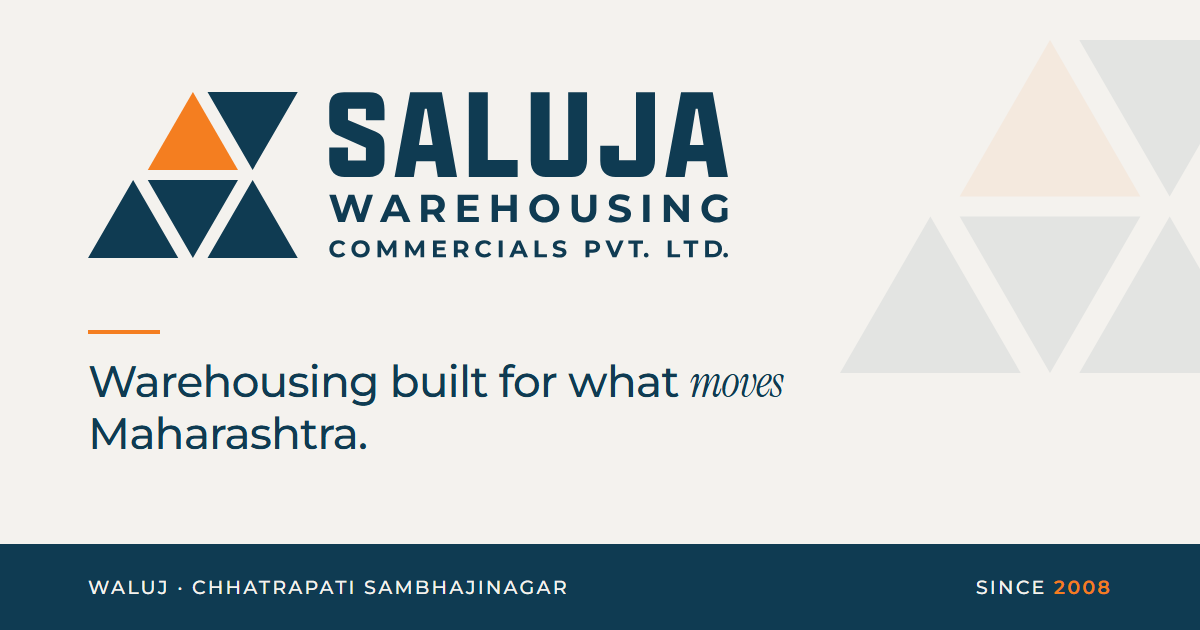
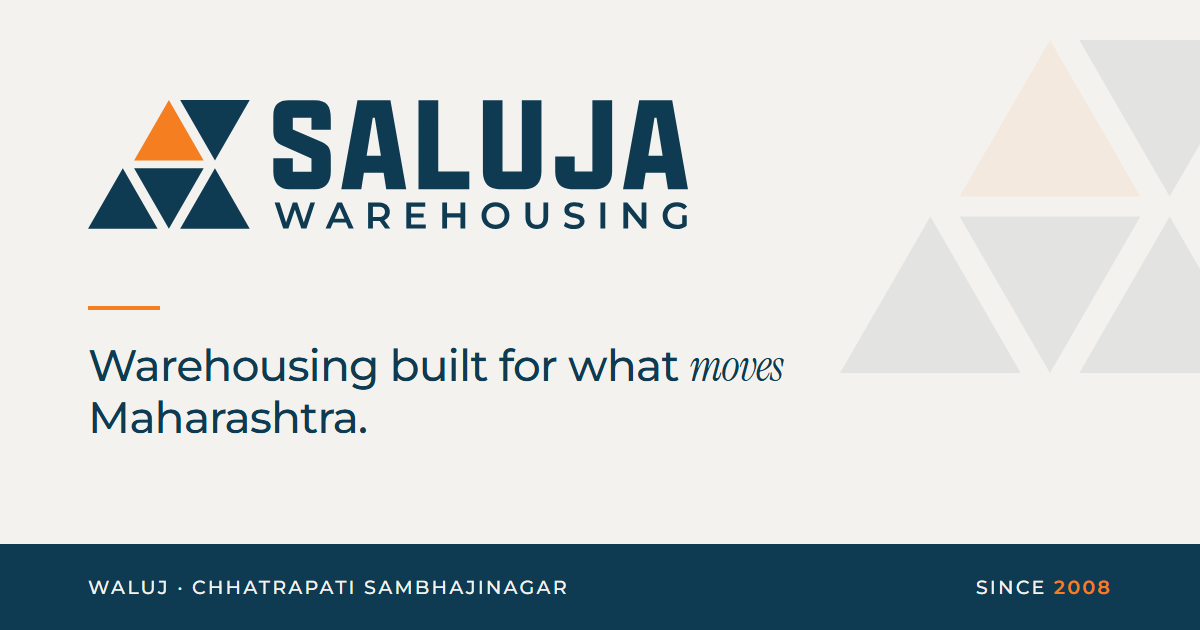
Present the site as Saluja Warehousing only
Drop every element tied to Saluja Warehousing Commercials Pvt. Ltd.:
- Remove the circular seal artwork (its ring carries the Commercials
  name); the Home and Company badges go back to "Since 2008" with the
  brand mark, and the 404 page uses the mark
- Rebuild the Open Graph card and the JSON-LD logo from the short
  SALUJA / WAREHOUSING lockups instead of the full legal-name ones
- Footer copyright, JSON-LD name and the enquiry reference prefix now
  say Saluja Warehousing / SW- rather than the Pvt. Ltd. name or SWCPL

Also keep the palette to the client kit: status dots and form errors
use brand orange instead of off-palette green and red.

Changed region(s): [[0.0617, 0.1206, 0.6167, 0.4222], [0.0617, 0.4825, 0.6783, 0.7238]]

diff --git a/index.html b/index.html
@@ -20,7 +20,7 @@
     <link rel="preload" href="/fonts/montserrat-var.woff2" as="font" type="font/woff2" crossorigin />
     <link rel="preload" href="/fonts/instrument-serif-italic.woff2" as="font" type="font/woff2" crossorigin />
     <link rel="preconnect" href="https://images.unsplash.com" />
-    <script type="application/ld+json">{"@context":"https://schema.org","@type":"LocalBusiness","name":"Saluja Warehousing Commercials Pvt. Ltd.","alternateName":"Saluja Warehousing","logo":"/logo.png","image":"/og-image.png","address":{"@type":"PostalAddress","streetAddress":"Aurangabad–Ahmednagar Highway, Waluj","addressLocality":"Chhatrapati Sambhajinagar","addressRegion":"Maharashtra","postalCode":"431133","addressCountry":"IN"},"telephone":"+91-8460427855","foundingDate":"2008","geo":{"@type":"GeoCoordinates","latitude":19.842,"longitude":75.236}}</script>
+    <script type="application/ld+json">{"@context":"https://schema.org","@type":"LocalBusiness","name":"Saluja Warehousing","logo":"/logo.png","image":"/og-image.png","address":{"@type":"PostalAddress","streetAddress":"Aurangabad–Ahmednagar Highway, Waluj","addressLocality":"Chhatrapati Sambhajinagar","addressRegion":"Maharashtra","postalCode":"431133","addressCountry":"IN"},"telephone":"+91-8460427855","foundingDate":"2008","geo":{"@type":"GeoCoordinates","latitude":19.842,"longitude":75.236}}</script>
   </head>
   <body>
     <div id="root"></div>

diff --git a/src/pages/Home.jsx b/src/pages/Home.jsx
@@ -1,6 +1,6 @@
 import { useEffect, useRef, useState } from 'react';
 import { Link } from 'react-router-dom';
-import BrandSeal from '../components/BrandSeal.jsx';
+import BrandMark from '../components/BrandMark.jsx';
 import CampusMap from '../components/CampusMap.jsx';
 import usePageMeta from '../hooks/usePageMeta.js';
 import { IMG, PHONE, TEL, fmt, prefersReducedMotion } from '../data/site.js';
@@ -292,7 +292,9 @@ function Intro() {
             <img className="intro-img-main" src={IMG('1587293852726-70cdb56c2866', 1400)} alt="High pallet racking stocked with cartons" loading="lazy" />
             <img className="intro-img-sub" src={IMG('1616401784845-180882ba9ba8', 900)} alt="Reach truck working an aisle" loading="lazy" />
             <div className="intro-badge">
-              <BrandSeal />
+              <BrandMark tone="light" className="intro-badge-mark" />
+              <span>Since</span>
+              <strong>2008</strong>
             </div>
           </div>
         </div>

diff --git a/src/pages/Company.jsx b/src/pages/Company.jsx
@@ -1,5 +1,5 @@
 import { useEffect, useRef, useState } from 'react';
-import BrandSeal from '../components/BrandSeal.jsx';
+import BrandMark from '../components/BrandMark.jsx';
 import PageHero from '../components/PageHero.jsx';
 import NextCard from '../components/NextCard.jsx';
 import usePageMeta from '../hooks/usePageMeta.js';
@@ -107,7 +107,7 @@ export default function Company() {
         <div className="container split">
           <div className="lead-media">
             <img src={portrait} alt="Jeetendrasingh Saluja, Proprietor of Saluja Warehousing" loading="lazy" width="800" height="800" />
-            <div className="lead-monogram"><BrandSeal tone="light" /></div>
+            <div className="lead-monogram"><BrandMark tone="light" className="lead-monogram-mark" /><span className="lead-monogram-kicker">Since</span><span>2008</span></div>
           </div>
           <div className="stack">
             <span className="eyebrow">Leadership</span>

diff --git a/src/pages/Home.css b/src/pages/Home.css
@@ -262,15 +262,28 @@
 }
 .intro-badge {
   position: absolute;
-  left: 6%;
-  top: 5%;
-  width: clamp(128px, 12vw, 168px);
+  left: 8%;
+  top: 6%;
+  width: clamp(112px, 10.5vw, 136px);
   aspect-ratio: 1;
-  padding: clamp(8px, 0.9vw, 12px);
   border-radius: 50%;
-  background: #fff;
-  box-shadow: 0 20px 40px rgba(10, 42, 59, 0.18);
+  background: var(--navy);
+  color: var(--bg);
+  display: flex;
+  flex-direction: column;
+  align-items: center;
+  justify-content: center;
+  gap: 2px;
+  box-shadow: 0 20px 40px rgba(10, 42, 59, 0.25);
 }
+.intro-badge-mark { width: clamp(24px, 2.2vw, 30px); height: auto; margin-bottom: 6px; }
+.intro-badge span {
+  font: 500 11px var(--sans);
+  letter-spacing: 0.14em;
+  text-transform: uppercase;
+  color: rgba(244, 242, 238, 0.7);
+}
+.intro-badge strong { font: 400 clamp(30px, 2.8vw, 38px)/1 var(--serif); }
 
 .intro-stats {
   margin: clamp(64px, 7vw, 110px) 0 0;

diff --git a/src/pages/Company.css b/src/pages/Company.css
@@ -55,12 +55,25 @@
   position: absolute;
   left: 0;
   bottom: 10%;
-  width: clamp(132px, 12vw, 168px);
+  width: clamp(124px, 11.5vw, 156px);
   aspect-ratio: 1;
-  padding: clamp(8px, 0.9vw, 12px);
   border-radius: 50%;
   background: var(--navy-deep);
+  border: 6px solid var(--orange);
+  display: flex;
+  flex-direction: column;
+  align-items: center;
+  justify-content: center;
+  gap: 2px;
   box-shadow: 0 20px 40px rgba(0, 0, 0, 0.3);
+}
+.lead-monogram .lead-monogram-mark { width: clamp(24px, 2.2vw, 30px); height: auto; margin-bottom: 6px; }
+.lead-monogram span { font: italic 400 clamp(30px, 2.8vw, 40px)/1 var(--serif); }
+.lead-monogram .lead-monogram-kicker {
+  font: 500 11px var(--sans);
+  letter-spacing: 0.14em;
+  text-transform: uppercase;
+  color: rgba(244, 242, 238, 0.75);
 }
 .lead-person {
   display: flex;

diff --git a/src/pages/NotFound.jsx b/src/pages/NotFound.jsx
@@ -1,5 +1,5 @@
 import { Link } from 'react-router-dom';
-import BrandSeal from '../components/BrandSeal.jsx';
+import BrandMark from '../components/BrandMark.jsx';
 import usePageMeta from '../hooks/usePageMeta.js';
 import { PHONE, TEL } from '../data/site.js';
 import './NotFound.css';
@@ -9,7 +9,7 @@ export default function NotFound() {
   return (
     <section className="nf" aria-labelledby="nf-h">
       <div className="container nf-inner">
-        <BrandSeal className="nf-seal" />
+        <BrandMark className="nf-mark" />
         <span className="eyebrow">Error 404</span>
         <h1 id="nf-h" className="h2 nf-title">This aisle is <span className="em">empty</span>.</h1>
         <p className="lead">The page you were looking for has moved or never existed. The campus, though, is right where it has been since 2008.</p>

diff --git a/src/styles/global.css b/src/styles/global.css
@@ -1,6 +1,7 @@
 /* ---------- Tokens ---------- */
 :root {
-  /* Brand palette: navy #0F3B52, orange #F47E20, background #F4F2EE, text #0F0F10 */
+  /* Brand palette (client kit): navy #0F3B52, orange #F47E20, background #F4F2EE, text #0F0F10.
+     Every other colour is a tint or shade of these, or a neutral. */
   --bg: #f4f2ee;
   --ink: #0f0f10;
   --muted: #57606a;
@@ -18,8 +19,8 @@
   --stone: #e3ded6;
   --stone-dark: #c9c3b8;
   --track: #f1eee9;        /* empty bar tracks */
-  --live: #2fb36a;         /* status dots only */
-  --error: #b4441a;
+  --live: var(--orange);   /* status dots */
+  --error: var(--orange-text);
   --line: rgba(15, 15, 16, 0.12);
   --line-dark: rgba(244, 242, 238, 0.12);
 

diff --git a/src/pages/Contact.jsx b/src/pages/Contact.jsx
@@ -68,7 +68,7 @@ function ContactForm() {
   const sTime = TIMES[form.time];
   const filled = [true, !!form.use, !!form.sector, !!form.time, !!(form.name && (form.phone || form.email)), !!form.note].filter(Boolean).length;
   const isBad = (k) => tried && ((k === 'name' && !form.name.trim()) || (k === 'phone' && !form.phone.trim() && !form.email.trim()));
-  const ref = 'SWCPL-' + String(form.area / 1000).padStart(3, '0') + String((form.name.length * 37) % 97).padStart(2, '0');
+  const ref = 'SW-' + String(form.area / 1000).padStart(3, '0') + String((form.name.length * 37) % 97).padStart(2, '0');
 
   const submit = (e) => {
     e.preventDefault();

diff --git a/src/components/Footer.jsx b/src/components/Footer.jsx
@@ -45,7 +45,7 @@ export default function Footer() {
           </address>
         </div>
         <div className="footer-base">
-          <span>© {new Date().getFullYear()} Saluja Warehousing Commercials Pvt. Ltd.</span>
+          <span>© {new Date().getFullYear()} Saluja Warehousing</span>
           <span className="footer-credit">
             Developed and maintained by{' '}
             <a href="https://idyllictechnology.com/" target="_blank" rel="noopener">Idyllic Technology Solution</a>

diff --git a/src/pages/Contact.css b/src/pages/Contact.css
@@ -51,8 +51,8 @@
   animation: ct-ping 2200ms ease-out infinite;
 }
 @keyframes ct-ping {
-  0% { box-shadow: 0 0 0 0 rgba(47, 179, 106, 0.6); }
-  70%, 100% { box-shadow: 0 0 0 10px rgba(47, 179, 106, 0); }
+  0% { box-shadow: 0 0 0 0 rgba(244, 126, 32, 0.6); }
+  70%, 100% { box-shadow: 0 0 0 10px rgba(244, 126, 32, 0); }
 }
 .contact-title .em { color: var(--peach); }
 

diff --git a/src/data/brand.js b/src/data/brand.js
@@ -20,6 +20,3 @@ export const WORDMARK = {
     { w: 98.5, d: 'M38.41 83.63L60.09 83.63L50.8 26.43L47.7 26.43ZM64.22 109.24L34.28 109.24L30.35 134.23L0 134.23L24.57 0L74.55 0L98.5 134.23L68.14 134.23Z' },
   ],
 };
-
-// Where the mark sits inside the seal ring artwork, in % of the ring box
-export const SEAL_MARK = { left: 23.23, top: 28.24, width: 53.54 };

diff --git a/src/pages/NotFound.css b/src/pages/NotFound.css
@@ -11,7 +11,7 @@
   gap: 20px;
   text-align: center;
 }
-.nf-seal { width: clamp(132px, 14vw, 176px); margin-bottom: 12px; }
+.nf-mark { width: clamp(84px, 8vw, 112px); height: auto; margin-bottom: 16px; }
 .nf-title { font-size: clamp(40px, 5vw, 72px); }
 .nf .lead { max-width: 480px; }
 .nf-actions {
